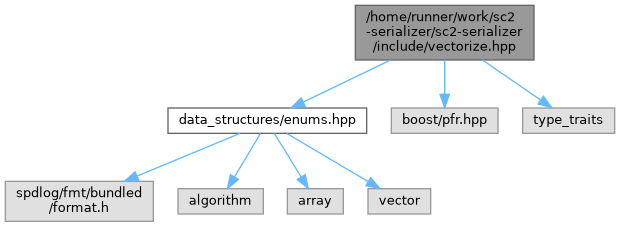
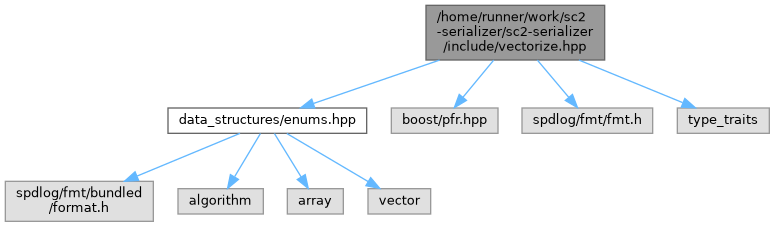
Deploying to gh-pages from  @ 4238f7fa76d9e453c0ea1c461a1d1e277c77e366 🚀

diff --git a/d5/d1d/replay__parsing_8hpp.html b/d5/d1d/replay__parsing_8hpp.html
@@ -101,62 +101,63 @@ Include dependency graph for replay_parsing.hpp:</div>
 <div class="dyncontent">
 <div class="center"><img src="../../db/dc5/replay__parsing_8hpp__incl.png" border="0" usemap="#a_2home_2runner_2work_2sc2-serializer_2sc2-serializer_2include_2replay__parsing_8hpp" alt=""/></div>
 <map name="a_2home_2runner_2work_2sc2-serializer_2sc2-serializer_2include_2replay__parsing_8hpp" id="a_2home_2runner_2work_2sc2-serializer_2sc2-serializer_2include_2replay__parsing_8hpp">
-<area shape="rect" title="Set of tools for parsing replay data into a more amenable form for machine learning...." alt="" coords="669,5,871,60"/>
-<area shape="rect" href="../../d0/d04/replay__interface_8hpp.html" title="Common interface and utilities for replay data structures." alt="" coords="195,108,363,148"/>
-<area shape="poly" title=" " alt="" coords="669,55,378,110,377,105,668,50"/>
-<area shape="rect" title=" " alt="" coords="167,350,253,375"/>
-<area shape="poly" title=" " alt="" coords="669,40,538,47,390,60,254,81,200,94,160,110,93,148,62,169,37,190,19,213,9,237,11,264,25,293,51,319,84,337,120,349,154,355,153,361,118,354,82,342,48,323,21,296,6,265,4,237,14,210,33,186,59,164,90,144,158,106,199,89,253,76,390,55,538,42,669,35"/>
-<area shape="rect" title=" " alt="" coords="618,269,671,295"/>
-<area shape="poly" title=" " alt="" coords="734,62,710,84,689,109,672,147,660,187,649,256,643,255,655,186,667,145,685,107,706,80,730,58"/>
-<area shape="rect" href="../../de/d06/units_8hpp.html" title="Unit data structures for StarCraft II. NeutralUnits are treated specially as many properties such as ..." alt="" coords="387,115,574,141"/>
-<area shape="poly" title=" " alt="" coords="689,63,530,114,528,109,688,58"/>
-<area shape="rect" title=" " alt="" coords="558,196,625,221"/>
-<area shape="poly" title=" " alt="" coords="711,63,676,84,645,110,619,147,602,184,597,182,614,144,641,106,673,79,708,58"/>
-<area shape="rect" href="../../d4/d74/vectorize_8hpp.html" title="Automatically convert some struct S to a vector of homogeneous data type, optionally expanding enum v..." alt="" coords="107,196,217,221"/>
-<area shape="poly" title=" " alt="" coords="669,36,540,39,396,50,328,59,268,72,219,89,185,110,173,125,166,144,162,182,157,182,161,143,169,123,181,106,217,84,267,67,328,54,396,45,540,34,669,30"/>
-<area shape="rect" title=" " alt="" coords="699,115,841,141"/>
-<area shape="poly" title=" " alt="" coords="773,60,773,101,767,101,767,60"/>
-<area shape="rect" title=" " alt="" coords="865,115,1024,141"/>
-<area shape="poly" title=" " alt="" coords="820,58,913,107,910,111,818,62"/>
-<area shape="rect" title=" " alt="" coords="1049,115,1179,141"/>
-<area shape="poly" title=" " alt="" coords="867,57,1059,109,1058,114,866,63"/>
-<area shape="rect" title=" " alt="" coords="1204,115,1328,141"/>
-<area shape="poly" title=" " alt="" coords="871,47,1023,73,1192,105,1210,109,1209,115,1191,111,1022,78,870,52"/>
-<area shape="rect" title=" " alt="" coords="1353,115,1411,141"/>
-<area shape="poly" title=" " alt="" coords="871,35,970,43,1089,56,1216,76,1341,105,1348,108,1346,113,1340,111,1215,81,1088,61,970,48,870,41"/>
-<area shape="rect" title=" " alt="" coords="1435,115,1526,141"/>
-<area shape="poly" title=" " alt="" coords="871,36,1124,58,1274,78,1424,105,1437,109,1436,114,1423,111,1273,83,1123,64,871,42"/>
-<area shape="rect" title=" " alt="" coords="1550,115,1593,141"/>
-<area shape="poly" title=" " alt="" coords="871,36,1034,45,1226,60,1408,80,1482,92,1539,105,1542,107,1541,112,1537,111,1481,97,1407,85,1225,65,1033,50,871,41"/>
-<area shape="rect" href="../../de/df4/soa_8hpp.html" title="SoA&lt;&#45;&gt;AoS conversion code as well as IsSoAType concept." alt="" coords="254,196,339,221"/>
-<area shape="poly" title=" " alt="" coords="286,148,294,182,288,183,281,149"/>
-<area shape="rect" href="../../dd/d3a/common_8hpp.html" title="This is one of &quot;those&quot; files that just contains a few bits and bobs such as action,..." alt="" coords="427,196,534,221"/>
-<area shape="poly" title=" " alt="" coords="328,146,439,188,437,193,326,151"/>
-<area shape="rect" title=" " alt="" coords="153,269,259,295"/>
-<area shape="poly" title=" " alt="" coords="284,223,233,263,230,258,280,219"/>
-<area shape="poly" title=" " alt="" coords="297,222,290,256,274,296,255,321,235,343,232,339,251,318,269,293,284,255,292,221"/>
-<area shape="rect" title=" " alt="" coords="454,269,523,295"/>
-<area shape="poly" title=" " alt="" coords="328,219,445,262,443,267,326,224"/>
-<area shape="poly" title=" " alt="" coords="484,221,488,256,483,256,479,222"/>
-<area shape="rect" href="../../dd/d93/enums_8hpp.html" title="Common enums in StarCraft II and accompanying tools such as enum&#45;&gt;string and enum&#45;&gt;one&#45;hot." alt="" coords="335,269,429,295"/>
-<area shape="poly" title=" " alt="" coords="466,224,410,263,407,259,463,219"/>
-<area shape="rect" title=" " alt="" coords="529,350,592,375"/>
-<area shape="poly" title=" " alt="" coords="496,219,517,241,538,268,552,303,560,336,554,337,547,304,533,271,513,244,492,223"/>
-<area shape="poly" title=" " alt="" coords="508,219,606,261,604,266,506,224"/>
-<area shape="poly" title=" " alt="" coords="358,297,248,347,246,342,356,292"/>
-<area shape="rect" title=" " alt="" coords="357,343,505,383"/>
-<area shape="poly" title=" " alt="" coords="391,293,414,330,410,332,387,296"/>
-<area shape="rect" title=" " alt="" coords="277,350,333,375"/>
-<area shape="poly" title=" " alt="" coords="372,297,328,342,324,338,369,293"/>
-<area shape="poly" title=" " alt="" coords="409,292,523,342,521,347,407,297"/>
-<area shape="poly" title=" " alt="" coords="455,143,337,193,335,188,453,138"/>
-<area shape="poly" title=" " alt="" coords="483,141,483,182,478,182,478,141"/>
-<area shape="poly" title=" " alt="" coords="468,143,443,167,417,197,402,227,391,257,386,255,397,225,413,195,439,163,465,139"/>
-<area shape="poly" title=" " alt="" coords="498,139,565,186,562,190,495,143"/>
-<area shape="poly" title=" " alt="" coords="171,220,194,256,189,259,167,223"/>
-<area shape="poly" title=" " alt="" coords="198,219,334,263,333,268,196,224"/>
-<area shape="rect" title=" " alt="" coords="36,269,128,295"/>
-<area shape="poly" title=" " alt="" coords="151,223,107,262,103,258,147,219"/>
+<area shape="rect" title="Set of tools for parsing replay data into a more amenable form for machine learning...." alt="" coords="596,5,798,60"/>
+<area shape="rect" href="../../d0/d04/replay__interface_8hpp.html" title="Common interface and utilities for replay data structures." alt="" coords="44,108,212,148"/>
+<area shape="poly" title=" " alt="" coords="597,51,225,110,225,105,596,46"/>
+<area shape="rect" title=" " alt="" coords="28,350,113,375"/>
+<area shape="poly" title=" " alt="" coords="596,41,439,49,262,63,111,83,60,96,33,110,17,136,9,165,9,196,14,228,35,289,58,337,54,339,30,291,9,230,4,197,4,164,12,134,30,106,58,91,110,78,261,58,438,44,596,35"/>
+<area shape="rect" title=" " alt="" coords="382,269,436,295"/>
+<area shape="poly" title=" " alt="" coords="622,62,579,83,539,110,501,146,469,186,424,258,419,255,465,183,497,143,535,106,576,79,620,58"/>
+<area shape="rect" href="../../de/d06/units_8hpp.html" title="Unit data structures for StarCraft II. NeutralUnits are treated specially as many properties such as ..." alt="" coords="236,115,422,141"/>
+<area shape="poly" title=" " alt="" coords="597,62,388,115,387,109,595,57"/>
+<area shape="rect" title=" " alt="" coords="356,196,422,221"/>
+<area shape="poly" title=" " alt="" coords="599,63,545,83,493,110,445,148,409,187,405,184,442,144,490,106,543,78,598,58"/>
+<area shape="rect" href="../../d4/d74/vectorize_8hpp.html" title="Automatically convert some struct S to a vector of homogeneous data type, optionally expanding enum v..." alt="" coords="548,115,659,141"/>
+<area shape="poly" title=" " alt="" coords="672,62,627,107,623,103,669,58"/>
+<area shape="rect" title=" " alt="" coords="716,196,846,221"/>
+<area shape="poly" title=" " alt="" coords="701,60,708,102,725,147,740,168,757,185,753,189,735,171,720,149,703,104,696,61"/>
+<area shape="rect" title=" " alt="" coords="734,115,876,141"/>
+<area shape="poly" title=" " alt="" coords="729,58,783,104,779,108,726,62"/>
+<area shape="rect" title=" " alt="" coords="900,115,1059,141"/>
+<area shape="poly" title=" " alt="" coords="777,58,933,109,931,114,776,63"/>
+<area shape="rect" title=" " alt="" coords="1083,115,1207,141"/>
+<area shape="poly" title=" " alt="" coords="798,50,1072,105,1089,109,1088,115,1071,111,797,55"/>
+<area shape="rect" title=" " alt="" coords="1232,115,1290,141"/>
+<area shape="poly" title=" " alt="" coords="798,37,889,45,996,59,1109,78,1220,105,1227,108,1225,113,1219,111,1108,84,995,64,888,51,798,42"/>
+<area shape="rect" title=" " alt="" coords="1314,115,1405,141"/>
+<area shape="poly" title=" " alt="" coords="798,38,1030,60,1167,80,1303,105,1316,109,1315,114,1302,111,1166,85,1030,66,798,43"/>
+<area shape="rect" title=" " alt="" coords="1429,115,1472,141"/>
+<area shape="poly" title=" " alt="" coords="798,37,1129,61,1297,81,1366,93,1418,105,1421,107,1420,112,1416,111,1364,98,1296,86,1129,67,798,42"/>
+<area shape="rect" href="../../de/df4/soa_8hpp.html" title="SoA&lt;&#45;&gt;AoS conversion code as well as IsSoAType concept." alt="" coords="65,196,150,221"/>
+<area shape="poly" title=" " alt="" coords="125,149,117,183,111,182,120,148"/>
+<area shape="rect" href="../../dd/d3a/common_8hpp.html" title="This is one of &quot;those&quot; files that just contains a few bits and bobs such as action,..." alt="" coords="174,196,281,221"/>
+<area shape="poly" title=" " alt="" coords="153,146,203,185,200,189,150,150"/>
+<area shape="rect" title=" " alt="" coords="252,269,358,295"/>
+<area shape="poly" title=" " alt="" coords="140,219,261,262,259,267,138,224"/>
+<area shape="poly" title=" " alt="" coords="107,222,79,337,74,336,102,221"/>
+<area shape="rect" title=" " alt="" coords="108,269,177,295"/>
+<area shape="poly" title=" " alt="" coords="116,220,133,256,128,258,111,223"/>
+<area shape="poly" title=" " alt="" coords="216,223,168,263,165,258,212,219"/>
+<area shape="rect" href="../../dd/d93/enums_8hpp.html" title="Common enums in StarCraft II and accompanying tools such as enum&#45;&gt;string and enum&#45;&gt;one&#45;hot." alt="" coords="460,269,555,295"/>
+<area shape="poly" title=" " alt="" coords="273,219,450,263,448,268,272,224"/>
+<area shape="rect" title=" " alt="" coords="232,350,295,375"/>
+<area shape="poly" title=" " alt="" coords="231,221,242,294,256,336,251,338,237,295,226,222"/>
+<area shape="poly" title=" " alt="" coords="258,219,371,263,369,268,256,224"/>
+<area shape="poly" title=" " alt="" coords="460,295,448,297,127,354,126,349,447,292,459,290"/>
+<area shape="rect" title=" " alt="" coords="370,343,518,383"/>
+<area shape="poly" title=" " alt="" coords="500,297,470,334,466,330,496,293"/>
+<area shape="rect" title=" " alt="" coords="542,350,598,375"/>
+<area shape="poly" title=" " alt="" coords="519,293,555,338,550,341,515,297"/>
+<area shape="poly" title=" " alt="" coords="473,297,309,350,308,344,471,292"/>
+<area shape="poly" title=" " alt="" coords="298,143,154,194,152,189,296,138"/>
+<area shape="poly" title=" " alt="" coords="316,143,255,189,252,185,312,139"/>
+<area shape="poly" title=" " alt="" coords="330,141,330,179,335,201,346,220,361,231,386,243,448,263,446,268,384,248,358,236,342,223,330,203,325,180,325,141"/>
+<area shape="poly" title=" " alt="" coords="340,139,374,183,370,186,336,142"/>
+<area shape="poly" title=" " alt="" coords="585,143,436,224,345,266,343,261,433,219,582,138"/>
+<area shape="poly" title=" " alt="" coords="620,139,637,155,652,176,661,199,660,211,655,223,638,242,616,257,570,275,568,270,614,252,634,238,651,220,655,210,656,200,648,179,633,159,616,143"/>
+<area shape="poly" title=" " alt="" coords="630,138,744,188,742,193,628,143"/>
+<area shape="rect" title=" " alt="" coords="548,196,640,221"/>
+<area shape="poly" title=" " alt="" coords="605,141,600,182,595,182,600,141"/>
 </map>
 </div>
 </div><table class="memberdecls">

diff --git a/d4/d74/vectorize_8hpp.html b/d4/d74/vectorize_8hpp.html
@@ -84,19 +84,22 @@ $(function() {
 <a href="#details">More...</a></p>
 <div class="textblock"><code>#include &quot;<a class="el" href="../../dd/d93/enums_8hpp.html">data_structures/enums.hpp</a>&quot;</code><br />
 <code>#include &lt;boost/pfr.hpp&gt;</code><br />
+<code>#include &lt;spdlog/fmt/fmt.h&gt;</code><br />
 <code>#include &lt;type_traits&gt;</code><br />
 </div><div class="textblock"><div class="dynheader">
 Include dependency graph for vectorize.hpp:</div>
 <div class="dyncontent">
 <div class="center"><img src="../../d1/d55/vectorize_8hpp__incl.png" border="0" usemap="#a_2home_2runner_2work_2sc2-serializer_2sc2-serializer_2include_2vectorize_8hpp" alt=""/></div>
 <map name="a_2home_2runner_2work_2sc2-serializer_2sc2-serializer_2include_2vectorize_8hpp" id="a_2home_2runner_2work_2sc2-serializer_2sc2-serializer_2include_2vectorize_8hpp">
-<area shape="rect" title="Automatically convert some struct S to a vector of homogeneous data type, optionally expanding enum v..." alt="" coords="355,5,534,60"/>
+<area shape="rect" title="Automatically convert some struct S to a vector of homogeneous data type, optionally expanding enum v..." alt="" coords="426,5,605,60"/>
 <area shape="rect" href="../../dd/d93/enums_8hpp.html" title="Common enums in StarCraft II and accompanying tools such as enum&#45;&gt;string and enum&#45;&gt;one&#45;hot." alt="" coords="168,108,367,133"/>
-<area shape="poly" title=" " alt="" coords="392,62,305,104,302,100,389,58"/>
+<area shape="poly" title=" " alt="" coords="440,63,314,106,313,101,439,58"/>
 <area shape="rect" title=" " alt="" coords="391,108,498,133"/>
-<area shape="poly" title=" " alt="" coords="447,60,447,94,442,94,442,60"/>
-<area shape="rect" title=" " alt="" coords="523,108,615,133"/>
-<area shape="poly" title=" " alt="" coords="484,58,542,98,539,102,481,62"/>
+<area shape="poly" title=" " alt="" coords="496,62,465,99,461,96,492,58"/>
+<area shape="rect" title=" " alt="" coords="522,108,653,133"/>
+<area shape="poly" title=" " alt="" coords="539,58,571,96,567,99,535,62"/>
+<area shape="rect" title=" " alt="" coords="677,108,769,133"/>
+<area shape="poly" title=" " alt="" coords="580,58,684,100,682,105,578,63"/>
 <area shape="rect" title=" " alt="" coords="5,181,153,221"/>
 <area shape="poly" title=" " alt="" coords="241,136,138,178,136,174,239,131"/>
 <area shape="rect" title=" " alt="" coords="178,189,263,214"/>
